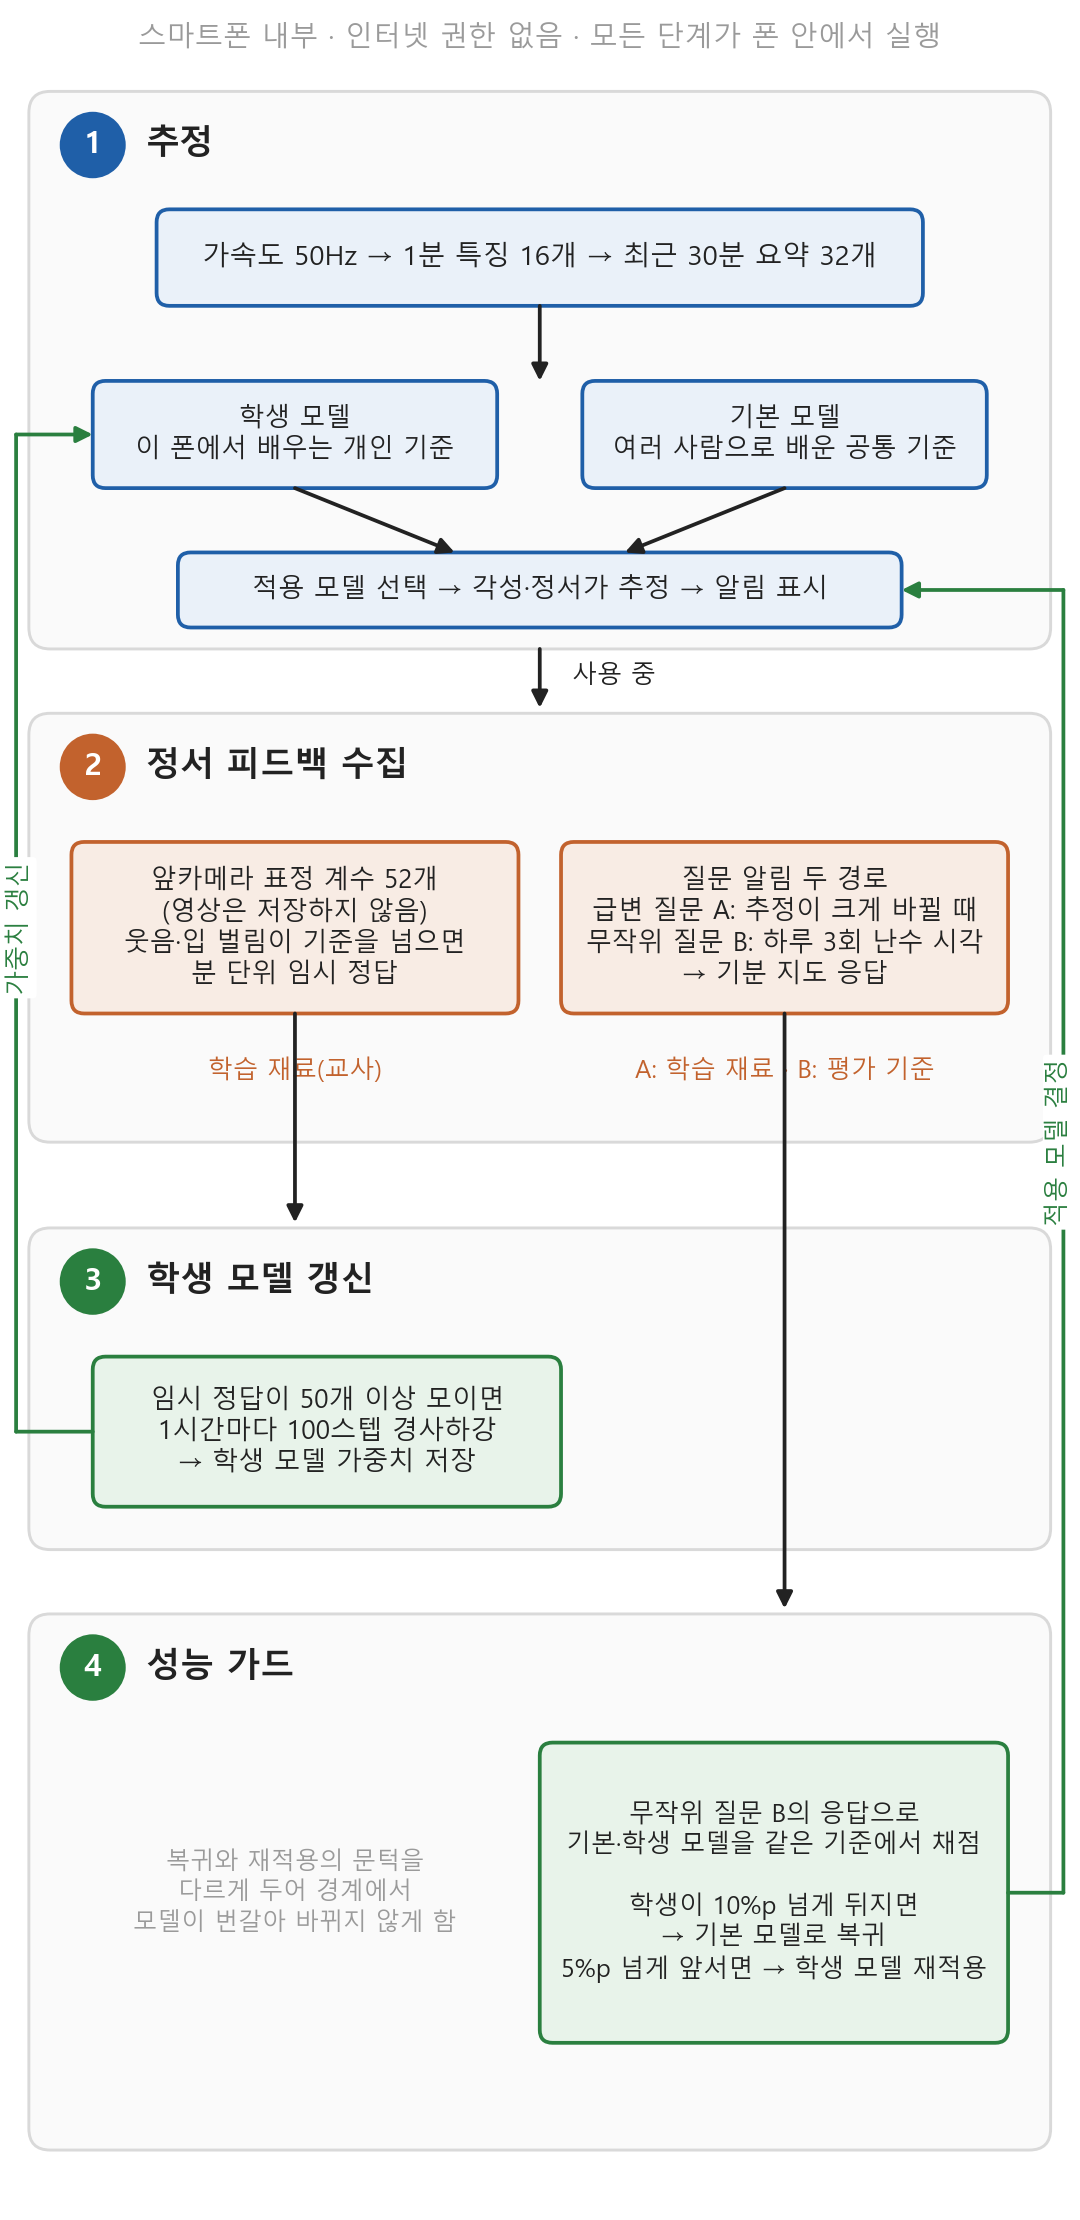
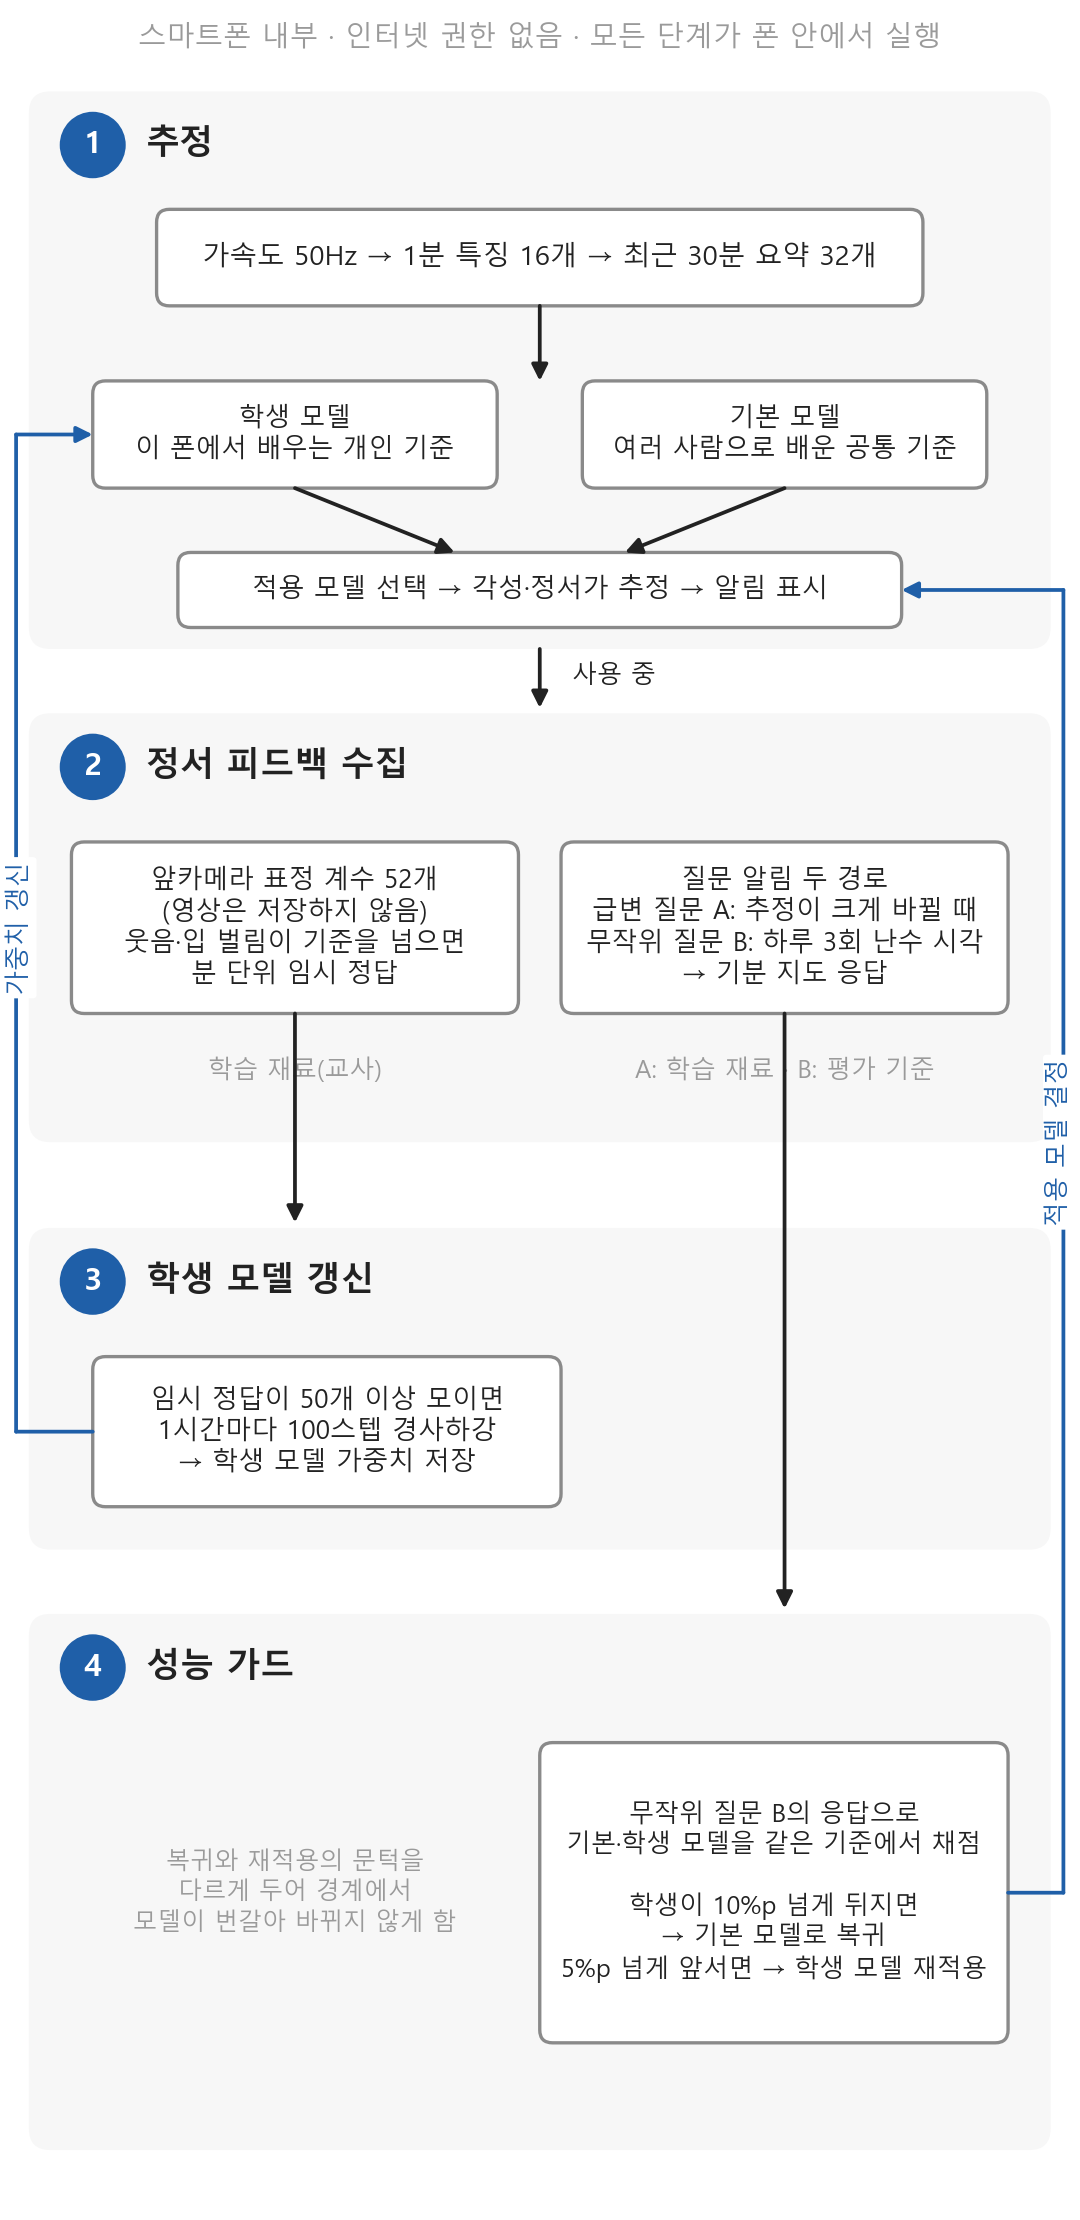
docs(MotionAngry): 그림 1 색 단순화 — 흰 상자·회색 테두리, 단계 번호와 되돌림 화살표만 파랑

diff --git a/Documents/MotionAngry/src/make_figures.py b/Documents/MotionAngry/src/make_figures.py
@@ -129,17 +129,17 @@ def loop_diagram():
     ax.set_xlim(0, 100)
     ax.set_ylim(0, 206)
     ax.axis("off")
-    GREEN, GFILL = "#2a7f3f", "#e8f3ea"
-    AFILL, PFILL = "#eaf1f9", "#f8ece4"
+    GREEN, GFILL = ACCENT, "#ffffff"
+    AFILL, PFILL = "#ffffff", "#ffffff"
 
     def band(y0, y1, n, title, c):
-        ax.add_patch(FancyBboxPatch((2, y0), 96, y1 - y0, boxstyle="round,pad=0,rounding_size=2", fc="#fafafa", ec="#d9d9d9", lw=0.7))
+        ax.add_patch(FancyBboxPatch((2, y0), 96, y1 - y0, boxstyle="round,pad=0,rounding_size=2", fc="#f7f7f7", ec="none", lw=0))
         ax.add_patch(Circle((8, y1 - 5), 3.1, fc=c, ec="none"))
         ax.text(8, y1 - 5, str(n), ha="center", va="center", fontsize=7.5, color="white", fontweight="bold")
         ax.text(13, y1 - 5, title, ha="left", va="center", fontsize=8.2, color=INK, fontweight="bold")
 
-    def box(x, y, w, h, s, c=ACCENT, fill=AFILL, fs=6.6):
-        ax.add_patch(FancyBboxPatch((x, y), w, h, boxstyle="round,pad=0,rounding_size=1.2", fc=fill, ec=c, lw=0.9))
+    def box(x, y, w, h, s, c="#8a8a8a", fill="#ffffff", fs=6.6):
+        ax.add_patch(FancyBboxPatch((x, y), w, h, boxstyle="round,pad=0,rounding_size=1.2", fc="#ffffff", ec="#8a8a8a", lw=0.8))
         ax.text(x + w / 2, y + h / 2, s, ha="center", va="center", fontsize=fs, color=INK, linespacing=1.25)
 
     def arrow(x0, y0, x1, y1, c=INK, lw=0.9, label=None, lx=None, ly=None):
@@ -166,20 +166,20 @@ def loop_diagram():
     box(16, 148, 68, 7, "적용 모델 선택 → 각성·정서가 추정 → 알림 표시", fs=6.3)
 
     # 2 피드백 수집
-    band(100, 140, 2, "정서 피드백 수집", PHYS)
+    band(100, 140, 2, "정서 피드백 수집", ACCENT)
     arrow(50, 146, 50, 140.5, label="사용 중", lx=57, ly=143.4)
     box(6, 112, 42, 16, "앞카메라 표정 계수 52개\n(영상은 저장하지 않음)\n웃음·입 벌림이 기준을 넘으면\n분 단위 임시 정답", PHYS, PFILL, 6.2)
     box(52, 112, 42, 16, "질문 알림 두 경로\n급변 질문 A: 추정이 크게 바뀔 때\n무작위 질문 B: 하루 3회 난수 시각\n→ 기분 지도 응답", PHYS, PFILL, 6.2)
-    ax.text(27, 106, "학습 재료(교사)", ha="center", fontsize=6.0, color=PHYS, style="italic")
-    ax.text(73, 106, "A: 학습 재료 · B: 평가 기준", ha="center", fontsize=6.0, color=PHYS, style="italic")
+    ax.text(27, 106, "학습 재료(교사)", ha="center", fontsize=6.0, color=MUTED, style="italic")
+    ax.text(73, 106, "A: 학습 재료 · B: 평가 기준", ha="center", fontsize=6.0, color=MUTED, style="italic")
 
     # 3 학생 모델 갱신
-    band(62, 92, 3, "학생 모델 갱신", GREEN)
+    band(62, 92, 3, "학생 모델 갱신", ACCENT)
     arrow(27, 112, 27, 92.5)
     box(8, 66, 44, 14, "임시 정답이 50개 이상 모이면\n1시간마다 100스텝 경사하강\n→ 학생 모델 가중치 저장", GREEN, GFILL, 6.3)
 
     # 4 성능 가드
-    band(6, 56, 4, "성능 가드", GREEN)
+    band(6, 56, 4, "성능 가드", ACCENT)
     arrow(73, 112, 73, 56.5)
     box(50, 16, 44, 28, "무작위 질문 B의 응답으로\n기본·학생 모델을 같은 기준에서 채점\n\n학생이 10%p 넘게 뒤지면\n→ 기본 모델로 복귀\n5%p 넘게 앞서면 → 학생 모델 재적용", GREEN, GFILL, 6.0)
     ax.text(27, 30, "복귀와 재적용의 문턱을\n다르게 두어 경계에서\n모델이 번갈아 바뀌지 않게 함", ha="center", va="center", fontsize=5.8, color=MUTED, linespacing=1.3)
